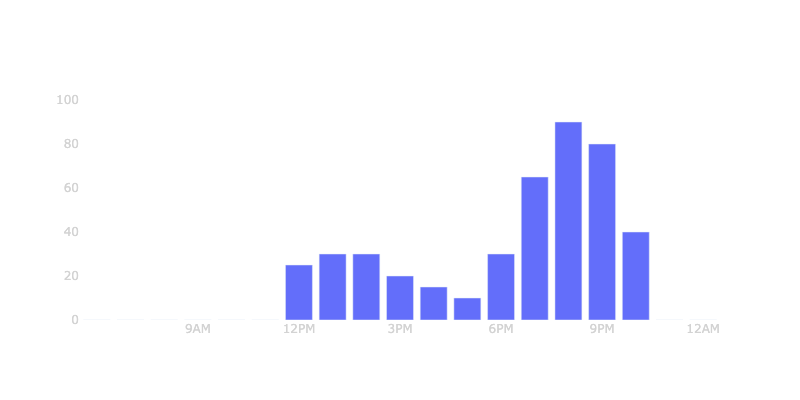
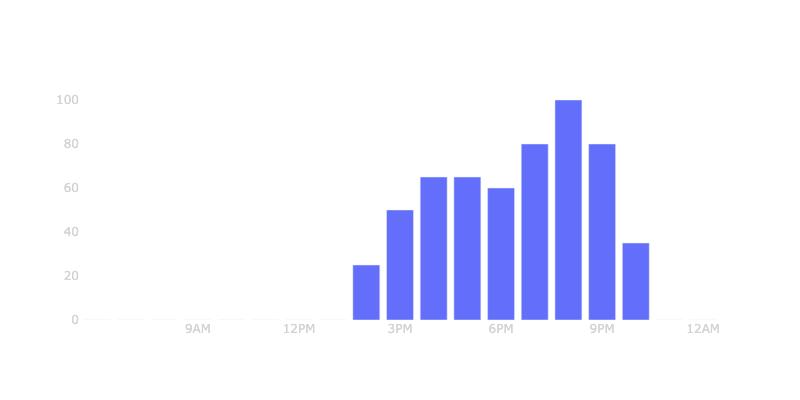
Final file front/back end

Changed region(s): [[0.3438, 0.36, 0.6875, 0.81], [0.6875, 0.24, 0.75, 0.33], [0.7812, 0.57, 0.8125, 0.63]]

diff --git a/templates/results.html b/templates/results.html
@@ -76,7 +76,7 @@
           </div>
           <div class="crowd-div">
             <img
-              src="{{url_for('static',filename=crowdlevelfiles[i]) }}"
+              src="{{url_for('static',filename=crowdlevel_lists[i]) }}"
               
               alt="crowd chart"
               class="crowd-chart"

diff --git a/app.py b/app.py
@@ -86,7 +86,7 @@ def my_form_post():
         counter += 1
 
     # print(distance_dictionary)
-    top_4_dictionaries = collections.Counter(distance_dictionary).most_common()[:-5:-1]
+    top_4_dictionaries = collections.Counter(distance_dictionary).most_common()[:-3:-1]
 
 
     top_4_dictionaries = dict(top_4_dictionaries)
@@ -145,45 +145,45 @@ def my_form_post():
     top_10_dictionaries = {}
     crowdlevelfiles = []
     for row, col in filtered_df.iterrows(): #to see which crowd level is the lowest
-        # params = {
-        #     'api_key_private': 'pri_4b5d2bc1abb749d49af70ad45ab9274a',
-        #     'venue_name': filtered_df['Restaurant'][row],
-        #     'venue_address': filtered_df['Address'][row]
-        # }
+        params = {
+            'api_key_private': 'pri_4b5d2bc1abb749d49af70ad45ab9274a',
+            'venue_name': filtered_df['Restaurant'][row],
+            'venue_address': filtered_df['Address'][row]
+        }
 
-        # response = requests.request("POST", url, params=params)
+        response = requests.request("POST", url, params=params)
 
-        # data = json.loads(response.text)
+        data = json.loads(response.text)
 
 
-        # hours = ["6AM","7AM","8AM", "9AM","10AM","11AM", "12PM","1PM","2PM", "3PM","4PM","5PM", "6PM","7PM","8PM","9PM","10PM","11PM", "12AM"]
-        # if (data):
-        #     print(data['analysis'])
-        #     percent_fullness = data['analysis'][5]['day_raw'][:-5]
-        #     intensity = data['analysis'][5]['day_info']['day_rank_max']
-        #     intensity = 8 - intensity
-        #     plotdata = [go.Bar(x = hours, y = percent_fullness)]
-        #     fig = go.Figure(data=plotdata)
-        #     fig.update_yaxes(range=[0, 100], color='lightgrey', showgrid=False)
-        #     fig.update_layout(
-        #         autosize=False,
-        #         width=800,
-        #         height=400,
-        #         paper_bgcolor='rgba(0,0,0,0)',
-        #         plot_bgcolor='rgba(0,0,0,0)'
-        #     )
-        #     fig.update_layout(
-        #         xaxis = dict(
-        #             tickmode = 'array',
-        #             tickvals = ["9AM", "12PM", "3PM","6PM","9PM", "12AM"], showgrid=False, color='lightgrey'
-        #         )
-        #     )
-        #     # fig.show()
-        #     fig.write_image("./static/images/crowdlevel" + str(counter) + ".png")
-        #     crowdlevel_lists.append('images/crowdlevel' + str(counter) + ".png")
+        hours = ["6AM","7AM","8AM", "9AM","10AM","11AM", "12PM","1PM","2PM", "3PM","4PM","5PM", "6PM","7PM","8PM","9PM","10PM","11PM", "12AM"]
+        if (data):
+            print(data['analysis'])
+            percent_fullness = data['analysis'][5]['day_raw'][:-5]
+            intensity = data['analysis'][5]['day_info']['day_rank_max']
+            intensity = 8 - intensity
+            plotdata = [go.Bar(x = hours, y = percent_fullness)]
+            fig = go.Figure(data=plotdata)
+            fig.update_yaxes(range=[0, 100], color='lightgrey', showgrid=False)
+            fig.update_layout(
+                autosize=False,
+                width=800,
+                height=400,
+                paper_bgcolor='rgba(0,0,0,0)',
+                plot_bgcolor='rgba(0,0,0,0)'
+            )
+            fig.update_layout(
+                xaxis = dict(
+                    tickmode = 'array',
+                    tickvals = ["9AM", "12PM", "3PM","6PM","9PM", "12AM"], showgrid=False, color='lightgrey'
+                )
+            )
+            # fig.show()
+            fig.write_image("./static/images/crowdlevel" + str(counter) + ".png")
+            crowdlevel_lists.append('images/crowdlevel' + str(counter) + ".png")
         intensity = 4
         sorted_crowd_dictionary[row] = intensity
-        if (counter == 3): 
+        if (counter == 5): 
             break
         crowdlevelfiles.append('images/graph' + str(counter) + ".png")
         counter += 1
@@ -216,7 +216,7 @@ def my_form_post():
         map_titles.append(filtered_df['Google_map_link'][row])
         cusine_lists.append(filtered_df['Cusines'][row])
 
-        if (counter == 3):
+        if (counter == 5):
             break
 
         counter += 1
